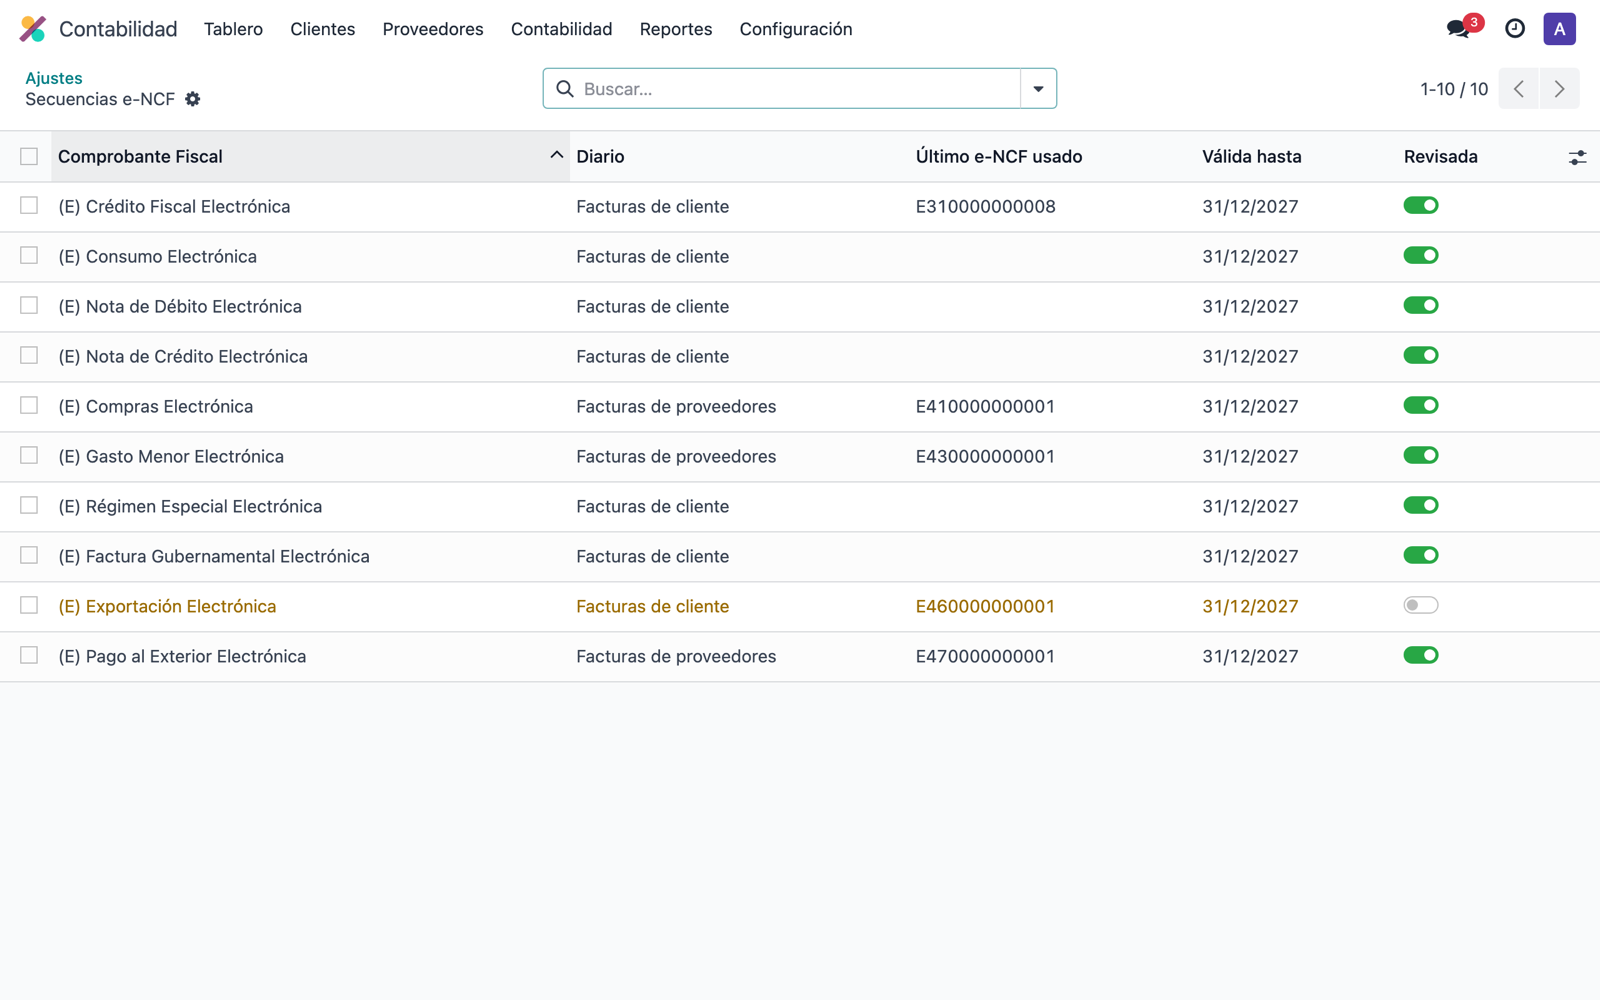
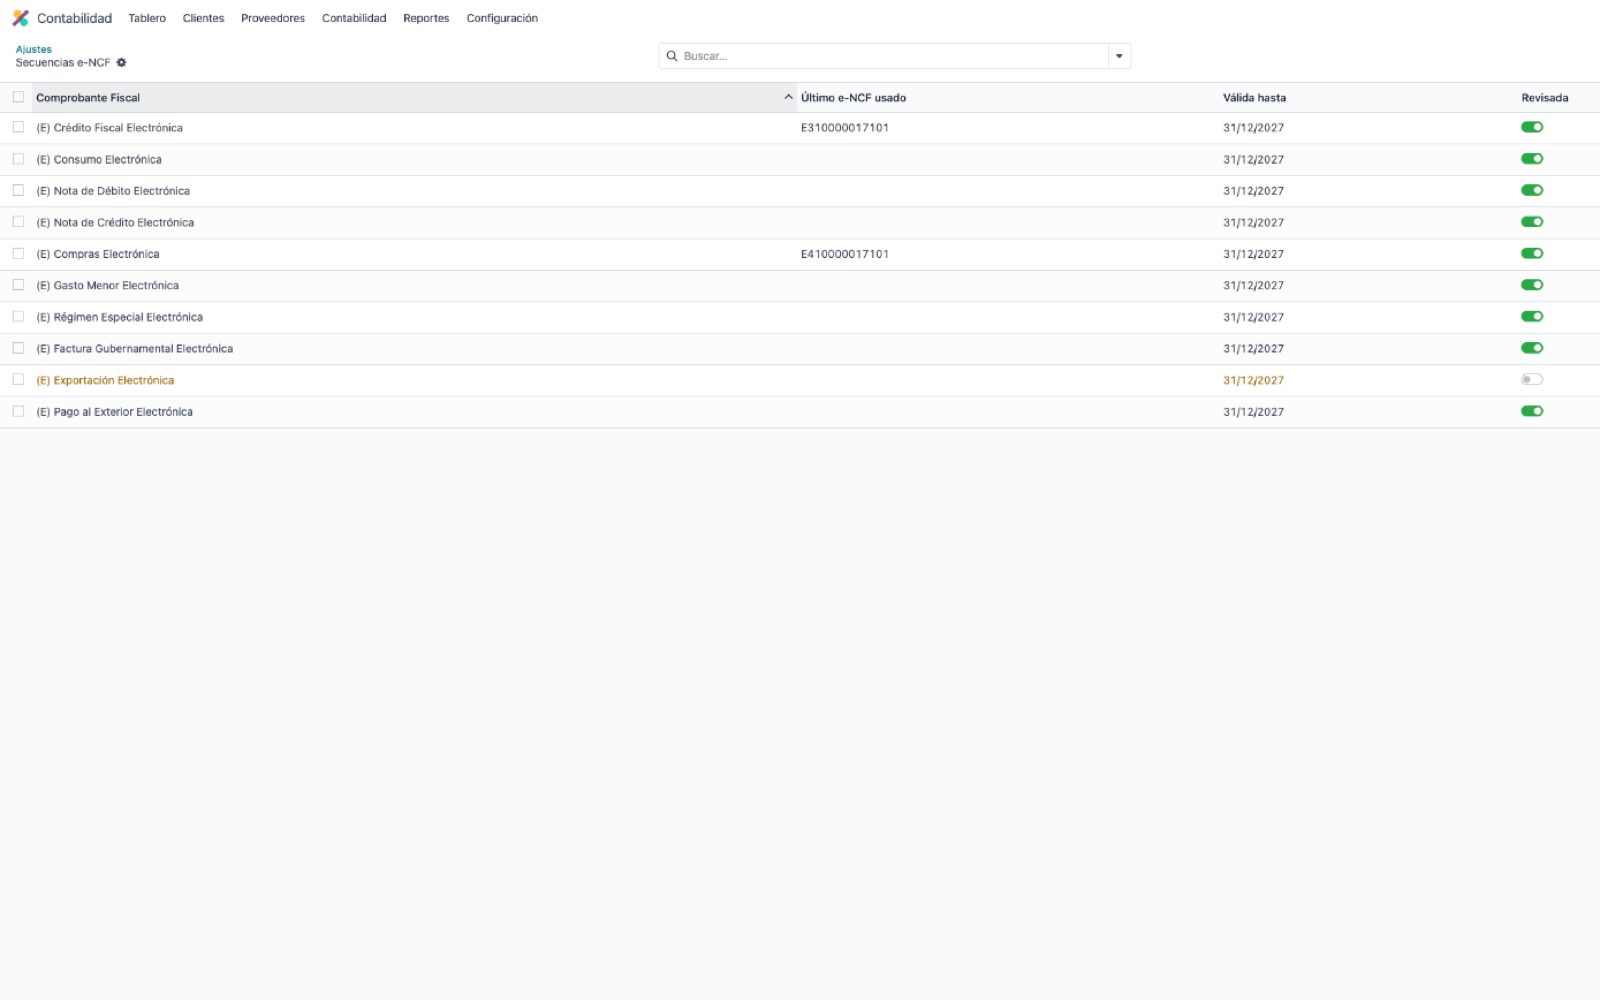
Versión 17.0.1.2.4: secuencias e-NCF, una fila por tipo
La lista enseñaba una fila por tipo y por diario: con cuatro diarios de
ventas, cada tipo salía cuatro veces, y una fecha escrita en una fila no
llegaba a una factura hecha con otro diario. Ahora hay una fila por tipo,
la fecha vale para todos los diarios y un diario nuevo la hereda.

diff --git a/l10n_do_ecf_glecf/models/l10n_do_journal_document_type.py b/l10n_do_ecf_glecf/models/l10n_do_journal_document_type.py
@@ -25,15 +25,43 @@ class AccountJournalDocumentType(models.Model):
     glecf_expiry_unchecked = fields.Boolean(compute="_compute_glecf_expiry_unchecked")
     glecf_last_number = fields.Char(string="Último e-NCF usado", compute="_compute_glecf_last_number")
 
+    def _glecf_same_type(self):
+        """The rows of this e-CF type in the company: the localization keeps
+        one per journal, but the DGII authorizes one sequence per type."""
+        self.ensure_one()
+        return self.search([
+            ("company_id", "=", self.company_id.id),
+            ("l10n_latam_document_type_id", "=", self.l10n_latam_document_type_id.id),
+        ])
+
+    def _glecf_reference(self):
+        """Of the rows of one type, the one that tells its expiry: the last one
+        somebody confirmed or, if nobody has, the oldest."""
+        confirmed = self.filtered("glecf_expiry_confirmed").sorted(
+            lambda row: (row.write_date or row.create_date, row.id), reverse=True
+        )
+        return (confirmed or self.sorted("id"))[:1]
+
     @api.model
     def _glecf_issued_domain(self, companies):
-        return [
+        """One row per type (2026-11-24). With four sales journals every type
+        showed four times, and a date typed on one row did not reach an invoice
+        made with another journal."""
+        rows = self.search([
             ("company_id", "in", companies.ids),
             ("l10n_latam_document_type_id.doc_code_prefix", "=like", "E%"),
             "|",
             ("journal_id.type", "=", "sale"),
             ("l10n_latam_document_type_id.doc_code_prefix", "in", PURCHASE_TYPES_ISSUED),
-        ]
+        ])
+        by_type = {}
+        for row in rows:
+            key = (row.company_id.id, row.l10n_latam_document_type_id.id)
+            by_type[key] = by_type.get(key, self.browse()) | row
+        references = self.browse()
+        for same_type in by_type.values():
+            references |= same_type._glecf_reference()
+        return [("id", "in", references.ids)]
 
     @api.depends("l10n_do_ncf_expiration_date", "glecf_expiry_confirmed")
     def _compute_glecf_expiry_unchecked(self):
@@ -56,8 +84,39 @@ class AccountJournalDocumentType(models.Model):
             ], order="l10n_do_fiscal_number desc", limit=1)
             rec.glecf_last_number = last.l10n_do_fiscal_number or False
 
+    def _glecf_is_ecf(self):
+        return (self.l10n_latam_document_type_id.doc_code_prefix or "").startswith("E")
+
+    @api.model_create_multi
+    def create(self, vals_list):
+        rows = super().create(vals_list)
+        # A new journal takes the expiry already set for the type, not the
+        # date the localization makes up.
+        for row in rows.filtered(lambda r: r._glecf_is_ecf()):
+            reference = (row._glecf_same_type() - rows)._glecf_reference()
+            if reference:
+                super(AccountJournalDocumentType, row).write({
+                    "l10n_do_ncf_expiration_date": reference.l10n_do_ncf_expiration_date,
+                    "glecf_expiry_confirmed": reference.glecf_expiry_confirmed,
+                })
+        return rows
+
     def write(self, vals):
         # Whoever changes the date has looked at it.
         if "l10n_do_ncf_expiration_date" in vals and "glecf_expiry_confirmed" not in vals:
             vals = dict(vals, glecf_expiry_confirmed=True)
-        return super().write(vals)
+        res = super().write(vals)
+        # The expiry belongs to the type: it goes to every journal.
+        shared = {
+            name: vals[name]
+            for name in ("l10n_do_ncf_expiration_date", "glecf_expiry_confirmed")
+            if name in vals
+        }
+        if shared:
+            others = self.browse()
+            for row in self.filtered(lambda r: r._glecf_is_ecf()):
+                others |= row._glecf_same_type()
+            others -= self
+            if others:
+                super(AccountJournalDocumentType, others).write(shared)
+        return res

diff --git a/l10n_do_ecf_glecf/models/ecf_builder.py b/l10n_do_ecf_glecf/models/ecf_builder.py
@@ -166,9 +166,13 @@ def _sequence_expiry(move):
     invoice: l10n_do_glecf copies it only when the type or the journal
     change, so a date corrected later would never reach an invoice already
     posted."""
-    sequence = move.journal_id.l10n_do_document_type_ids.filtered(
-        lambda doc: doc.l10n_latam_document_type_id == move.l10n_latam_document_type_id
-    )[:1]
+    # Of the type, not of the journal of the invoice (2026-11-24): the DGII
+    # authorizes one sequence per type, and a date typed on the row of another
+    # journal never reached the e-CF.
+    sequence = move.env["l10n_do.account.journal.document_type"].search([
+        ("company_id", "=", move.company_id.id),
+        ("l10n_latam_document_type_id", "=", move.l10n_latam_document_type_id.id),
+    ])._glecf_reference()
     return sequence.l10n_do_ncf_expiration_date or move.l10n_do_ncf_expiration_date
 
 

diff --git a/l10n_do_ecf_glecf/__manifest__.py b/l10n_do_ecf_glecf/__manifest__.py
@@ -11,7 +11,7 @@ Electrónica y el Decreto 587-24. Los firma y los envía GLECF
 (https://glecf.com) con tu certificado digital. Los datos de tus facturas solo
 salen de Odoo después de que lo aceptes en Ajustes.
 """,
-    "version": "17.0.1.2.3",
+    "version": "17.0.1.2.4",
     "category": "Accounting/Localizations/EDI",
     "author": "GLECF",
     "website": "https://glecf.com",

diff --git a/docs/manual.md b/docs/manual.md
@@ -91,9 +91,10 @@ Portal de Certificación.
 
 ## 5. Las secuencias e-NCF
 
-**Configurar las secuencias e-NCF** abre una lista con todos los tipos. Pon a
-cada uno la fecha de vencimiento que autorizó la DGII. En amarillo, las que aún
-tienen la fecha que puso Odoo.
+**Configurar las secuencias e-NCF** abre una lista con una fila por cada tipo de
+comprobante. Pon a cada uno la fecha de vencimiento que autorizó la DGII: vale
+para ese tipo en todos tus diarios. En amarillo, las que aún tienen la fecha que
+puso Odoo; si esa fecha es la correcta, activa «Revisada».
 
 ![Secuencias e-NCF](img/04-secuencias.png)
 
